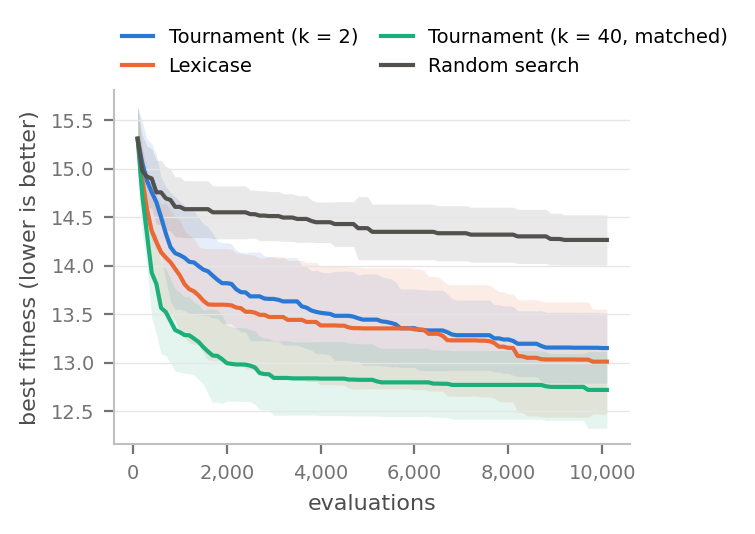
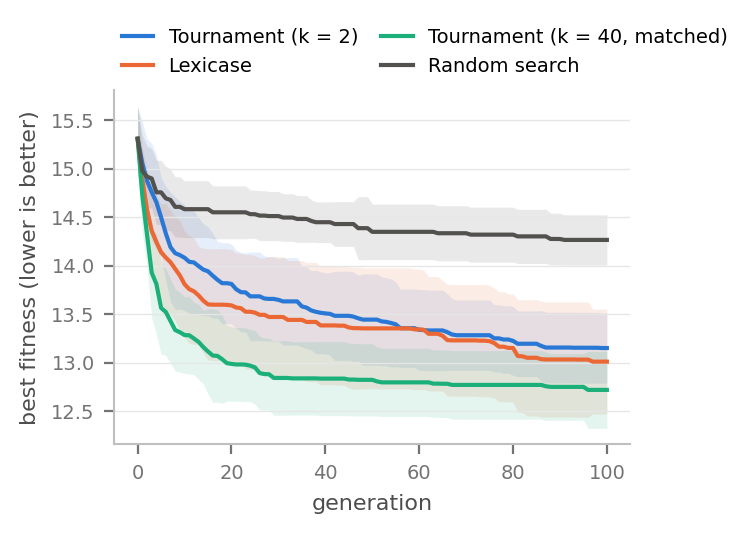
Plot fitness per generation and justify parameter choices
- The fitness curve now uses generations on the x-axis, as the assignment
  asks for a line plot across generations. Random search logs each batch of
  100 bodies as one generation, so all conditions share the axis.
- README design choices now explain the population size, the binary
  tournament baseline, crossover probability 0.7, the mutation mix and the
  1 to 3 module subtree replacement.

No results change: stats.csv, summary.csv and the other figures are identical.

diff --git a/assignments/assignment_1/plots.py b/assignments/assignment_1/plots.py
@@ -7,7 +7,6 @@ import numpy as np
 import pandas as pd
 from matplotlib.axes import Axes
 from matplotlib.figure import Figure
-from matplotlib.ticker import StrMethodFormatter
 
 from conditions import Condition
 from problem import TARGET_SIZES
@@ -83,10 +82,10 @@ def plot_fitness_curve(
     data: pd.DataFrame, conditions: list[Condition], figures: Path
 ) -> None:
     fig, ax = plt.subplots(figsize=(COLUMN_WIDTH, 2.3))
-    plot_mean_and_std(ax, data, "evaluations", "best_fitness", conditions)
-    ax.set_xlabel("evaluations")
+    # random search logs each batch of pop_size bodies as one generation
+    plot_mean_and_std(ax, data, "generation", "best_fitness", conditions)
+    ax.set_xlabel("generation")
     ax.set_ylabel("best fitness (lower is better)")
-    ax.xaxis.set_major_formatter(StrMethodFormatter("{x:,.0f}"))
     legend_above(ax)
     save(fig, figures, "fitness_curve")
 

diff --git a/assignments/assignment_1/analysis.py b/assignments/assignment_1/analysis.py
@@ -1,7 +1,7 @@
 """Figures and statistics for the report.
 
 Reads results/<condition>/seed_XX/ and writes to figures/:
-  fitness_curve        best fitness against evaluations (mean and std over seeds)
+  fitness_curve        best fitness per generation (mean and std over seeds)
   diversity_curve      population diversity per generation
   selection_strength   different parents per generation
   closest_per_target   the closest body to each target at the end of the run

diff --git a/assignments/assignment_1/README.md b/assignments/assignment_1/README.md
@@ -121,6 +121,23 @@ the chance that a run of `a` beats a run of `b` (0.5 means no difference).
 
 Source material for the Methods and Discussion sections of the report.
 
+- **Population 100, 100 generations.** Within the range the assignment
+  recommends (50 to 100 bodies over 100 generations).
+- **Binary tournament (k = 2) as the baseline.** The most common tournament
+  size, with weak selection pressure.
+- **Crossover probability 0.7.** A common value in the usual 0.6 to 0.9 range.
+  It was not tuned: the research question is about selection, so the variation
+  operators are kept at standard settings and identical in every condition.
+- **One mutation per child, chosen uniformly from ariel's four tree
+  mutations.** Every child differs from its parents even when crossover is
+  skipped (30% of the time), and no single operator is favoured. In an earlier
+  pilot (3 seeds, a different survivor scheme), adding a mutation that grows
+  bodies gave the same final fitness (12.23 vs 12.25), which suggests the exact
+  mix matters little.
+- **Subtree replacement adds a branch of 1 to 3 modules.** This is ariel's
+  built-in limit (the code passes `max_modules=3`, which matches it). Small
+  branches keep the mutation a local change and rarely push a body over the size
+  limit.
 - **Tournament without replacement.** A tournament of size k compares k
   different bodies. Sizes below 1 or above the population size are rejected.
 - **Calibrating the control.** `calibrate_k.py` lets lexicase and tournaments of
